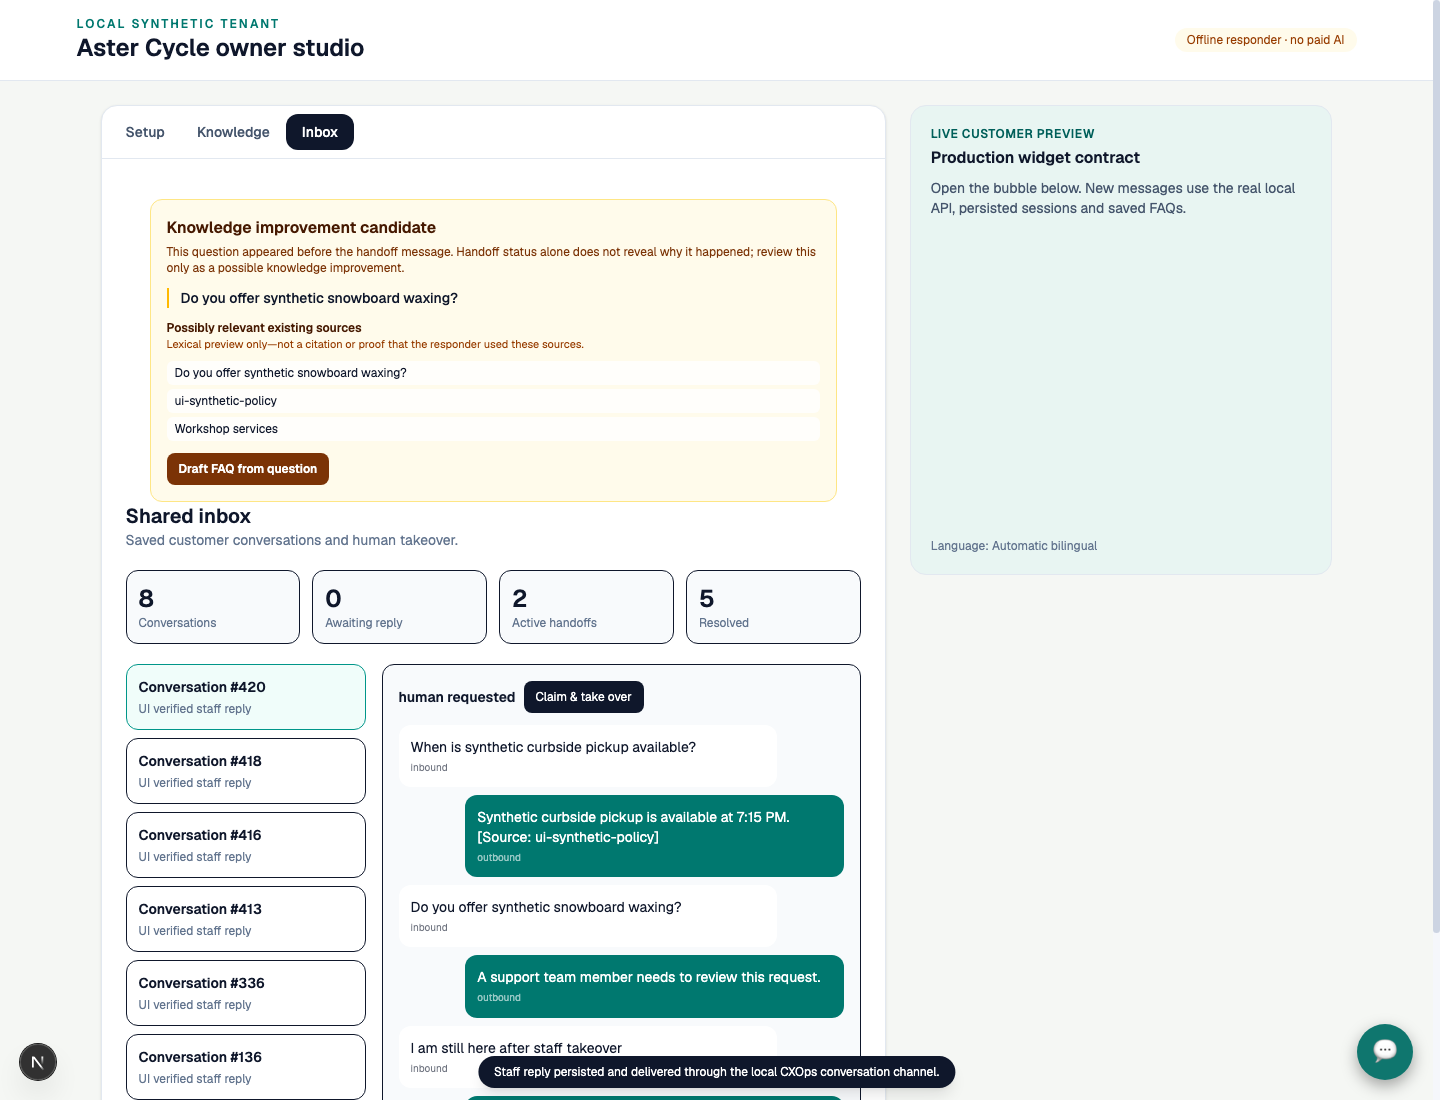
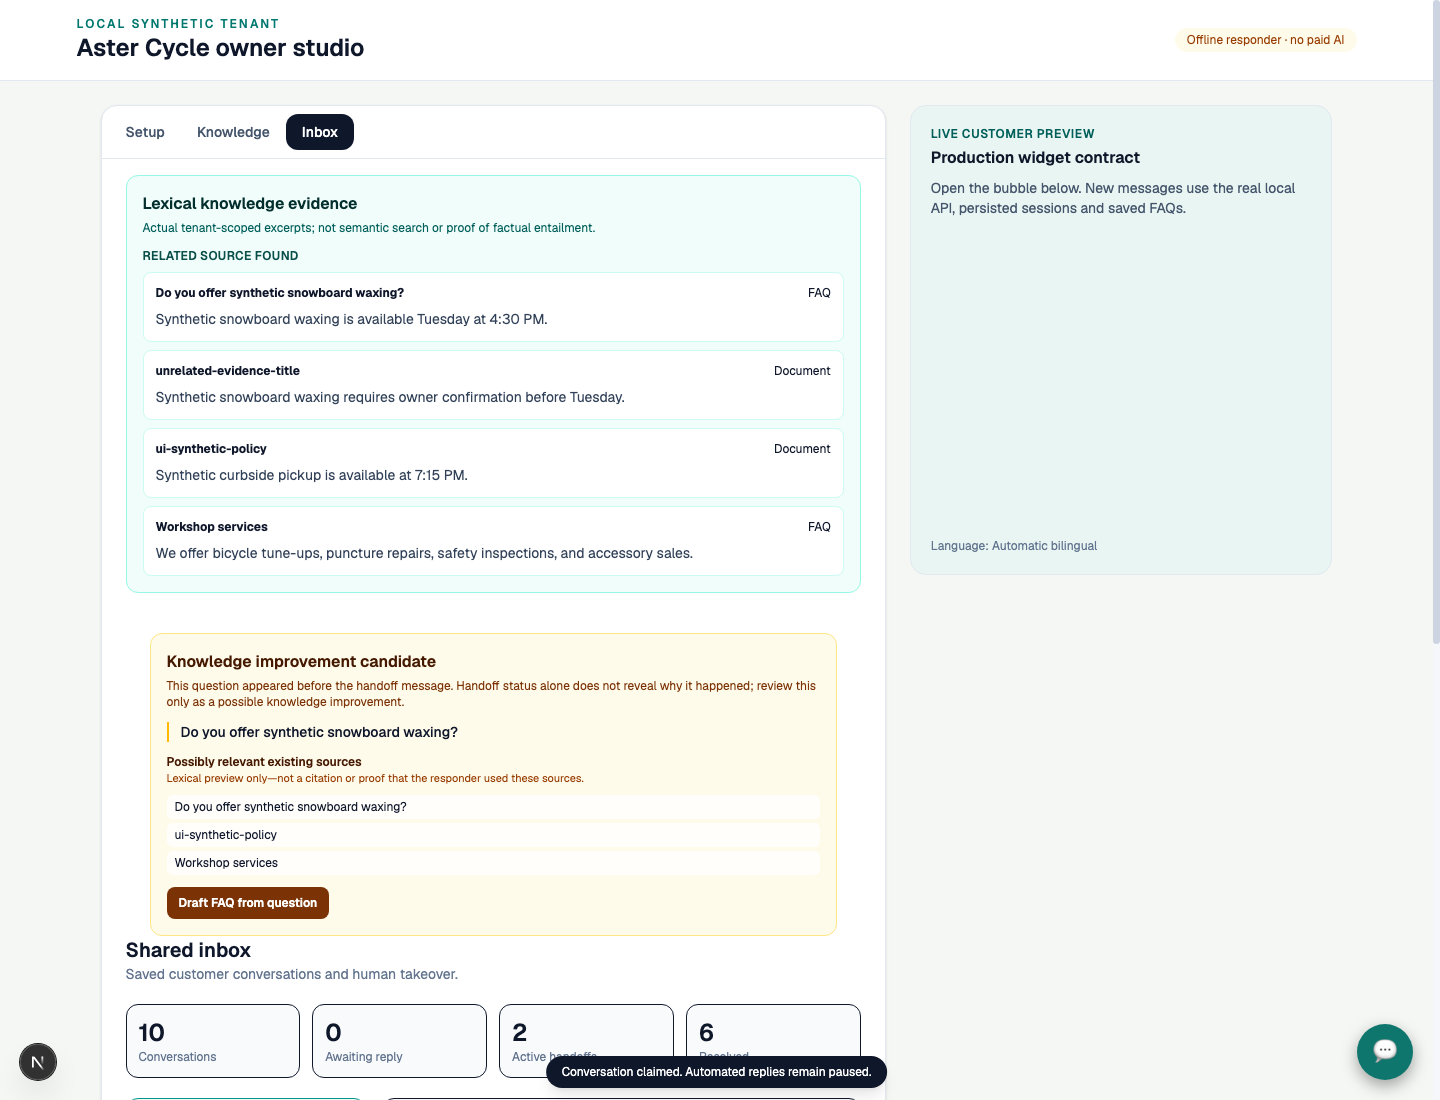
feat(owner-studio): show lexical knowledge evidence

diff --git a/frontend/src/app/chat/owner-studio/studio.tsx b/frontend/src/app/chat/owner-studio/studio.tsx
@@ -12,6 +12,7 @@ type Conversation = { id: number; subject: string | null; status: string; needs_
 type Message = { id: number; direction: string; body: string; created_at: string; delivery_status: string | null };
 type Handoff = { session_id: number; conversation_id: number; status: string; assigned_to_subject: string | null };
 type LocalDocument = { document_id: number; title: string; filename: string; chunks_created: number };
+type Evidence = { question: string; coverage: "missing" | "ambiguous" | "related"; items: { source_id: string; title: string; provenance: string; excerpt: string; lexical_score: number }[] };
 
 async function request(path: string, init?: RequestInit) {
   const headers = new Headers(init?.headers);
@@ -43,6 +44,8 @@ export default function OwnerStudio({ initialView }: { initialView: "setup" | "k
   const [loadedConversationId, setLoadedConversationId] = useState<number | null>(null);
   const [messagesLoading, setMessagesLoading] = useState(false);
   const [messagesError, setMessagesError] = useState<string | null>(null);
+  const [rawEvidence, setEvidence] = useState<Evidence | null>(null);
+  const [evidenceState, setEvidenceState] = useState<"idle" | "loading" | "error">("idle");
   const [reply, setReply] = useState("");
   const [notice, setNotice] = useState("Loading local workspace…");
 
@@ -89,9 +92,20 @@ export default function OwnerStudio({ initialView }: { initialView: "setup" | "k
     ...faqs,
     ...documents.map((document) => ({ title: document.title })),
   ], Boolean(selectedHandoff)), [documents, faqs, messages, selectedHandoff]);
+  const evidence = rawEvidence?.question === knowledgeCandidate?.question ? rawEvidence : null;
   // Kept false while the compact inbox markup below is migrated; the owner-facing
   // candidate panel is rendered above it with neutral, evidence-accurate wording.
   const knowledgeGap = false ? knowledgeCandidate : null;
+  useEffect(() => {
+    if (!knowledgeCandidate) return;
+    let active = true;
+    const question = knowledgeCandidate.question;
+    queueMicrotask(() => { if (active) { setEvidence(null); setEvidenceState("loading"); } });
+    request(`/staff/tenant-config/offline-evidence?question=${encodeURIComponent(question)}`)
+      .then((result) => { if (active && result.question === question) { setEvidence(result); setEvidenceState("idle"); } })
+      .catch(() => { if (active) setEvidenceState("error"); });
+    return () => { active = false; };
+  }, [knowledgeCandidate]);
   async function saveSettings() {
     if (!settings) return;
     const saved = await request("/staff/tenant-config/public-chat", {
@@ -144,6 +158,7 @@ export default function OwnerStudio({ initialView }: { initialView: "setup" | "k
     <div className="mx-auto grid max-w-7xl gap-6 p-3 sm:p-6 lg:grid-cols-[1.3fr_.7fr]">
       <section className="rounded-2xl border border-slate-200 bg-white shadow-sm">
         <nav className="flex overflow-x-auto border-b border-slate-200 p-2">{(["setup", "knowledge", "inbox"] as const).map((item) => <button key={item} onClick={() => setTab(item)} className={`shrink-0 rounded-xl px-4 py-2 text-sm font-medium capitalize ${tab === item ? "bg-slate-900 text-white" : "text-slate-600"}`}>{item}</button>)}</nav>
+        {tab === "inbox" && knowledgeCandidate && <section aria-label="Retrieved knowledge evidence" dir={language === "fa" ? "rtl" : "ltr"} className="mx-4 mt-4 rounded-xl border border-teal-200 bg-teal-50 p-4 sm:mx-6"><h3 className="font-semibold text-teal-950">{language === "fa" ? "شواهد واژگانی دانش" : "Lexical knowledge evidence"}</h3><p className="mt-1 text-xs text-teal-800">{language === "fa" ? "گزیدههای واقعی و محدود به همین مستأجر؛ نه جستوجوی معنایی و نه اثبات درستی." : "Actual tenant-scoped excerpts; not semantic search or proof of factual entailment."}</p>{evidenceState === "loading" && <p className="mt-3 text-sm text-teal-800">{language === "fa" ? "در حال یافتن گزیدهها…" : "Finding matching excerpts…"}</p>}{evidenceState === "error" && <p role="alert" className="mt-3 text-sm text-rose-800">{language === "fa" ? "شواهد در دسترس نیست." : "Evidence is unavailable."}</p>}{evidence && <><p className="mt-3 text-xs font-semibold uppercase tracking-wide text-teal-900">{evidence.coverage === "missing" ? (language === "fa" ? "پوشش یافت نشد" : "No lexical coverage") : evidence.coverage === "ambiguous" ? (language === "fa" ? "چند منبع مشابه" : "Multiple similar sources") : (language === "fa" ? "منبع مرتبط یافت شد" : "Related source found")}</p><div className="mt-2 space-y-2">{evidence.items.map((item) => <article key={item.source_id} className="rounded-lg border border-teal-100 bg-white p-3"><div className="flex flex-wrap items-center justify-between gap-2 text-xs"><strong>{item.title}</strong><span>{item.provenance === "document" ? (language === "fa" ? "سند" : "Document") : (language === "fa" ? "پرسش متداول" : "FAQ")}</span></div><p dir="auto" className="mt-2 line-clamp-4 whitespace-pre-wrap break-words text-start text-sm text-slate-700">{item.excerpt}</p></article>)}{evidence.items.length === 0 && <p className="rounded-lg bg-white p-3 text-sm text-teal-900">{language === "fa" ? "هیچ گزیده مشابهی یافت نشد." : "No matching excerpt was found."}</p>}</div></>}</section>}
         <div className="p-4 sm:p-6">
           {tab === "setup" && settings && <div className="space-y-5" dir={language === "fa" ? "rtl" : "ltr"}><div><h2 className="text-xl font-semibold">Assistant setup</h2><p className="text-sm text-slate-500">Identity, greeting, language preference and appearance.</p></div>
             <label className="block text-sm font-medium">Assistant name<input className="mt-2 w-full rounded-xl border p-3" value={settings.display_name} onChange={(e) => setSettings({ ...settings, display_name: e.target.value })}/></label>

diff --git a/frontend/src/lib/local-demo/security.test.ts b/frontend/src/lib/local-demo/security.test.ts
@@ -20,6 +20,7 @@ describe("local demo bridge boundary", () => {
   });
   it("allows only the owner-studio route set", () => {
     assert.equal(isAllowedLocalDemoPath("staff/tenant-config/offline-faqs"), true);
+    assert.equal(isAllowedLocalDemoPath("staff/tenant-config/offline-evidence"), true);
     assert.equal(isAllowedLocalDemoPath("staff/tenant-config/offline-documents"), true);
     assert.equal(isAllowedLocalDemoPath("staff/tenant-config/offline-documents/42"), true);
     assert.equal(isAllowedLocalDemoPath("staff/tenant-config/offline-documents/not-an-id"), false);

diff --git a/frontend/src/lib/local-demo/security.ts b/frontend/src/lib/local-demo/security.ts
@@ -12,6 +12,7 @@ function isSameLoopbackOrigin(candidate: string, requestOrigin: string): boolean
 export const LOCAL_DEMO_PATHS = [
   /^staff\/tenant-config\/public-chat$/,
   /^staff\/tenant-config\/offline-faqs$/,
+  /^staff\/tenant-config\/offline-evidence$/,
   /^staff\/tenant-config\/offline-documents(?:\/\d+)?$/,
   /^staff\/public-chat\/handoff$/,
   /^staff\/public-chat\/sessions\/\d+\/(assign|release|resolve)$/,

diff --git a/app/api/routes/tenant_config.py b/app/api/routes/tenant_config.py
@@ -14,7 +14,16 @@ import hashlib
 from typing import Annotated, Any
 from urllib.parse import urlsplit
 
-from fastapi import APIRouter, Depends, File, Form, HTTPException, UploadFile, status
+from fastapi import (
+    APIRouter,
+    Depends,
+    File,
+    Form,
+    HTTPException,
+    Query,
+    UploadFile,
+    status,
+)
 from sqlalchemy import delete, func, select
 from sqlalchemy.ext.asyncio import AsyncSession
 
@@ -32,6 +41,8 @@ from app.schemas.tenant_config import (
     OfflineDocumentsResponse,
     OfflineDocumentSummary,
     OfflineDocumentUploadResponse,
+    OfflineEvidenceItem,
+    OfflineEvidenceResponse,
     OfflineFaqItem,
     OfflineFaqsResponse,
     OfflineFaqsUpdateRequest,
@@ -44,6 +55,7 @@ from app.services.document_parser_service import (
     UnsupportedDocumentTypeError,
 )
 from app.services.knowledge_ingestion_service import KnowledgeIngestionService
+from app.services.offline_grounded_chat import _tokens
 from app.services.tenant_config_service import (
     CLEARABLE_PUBLIC_CHAT_FIELDS,
     AmbiguousWidgetError,
@@ -71,6 +83,8 @@ ManageAuthz = Annotated[
 MAX_LOCAL_DOCUMENT_BYTES = 512 * 1024
 MAX_LOCAL_DOCUMENTS = 20
 LOCAL_DOCUMENT_SOURCE = "local_synthetic_document"
+_OWNER_EVIDENCE_LIMIT = 5
+_OWNER_EVIDENCE_SCAN_LIMIT = 5000
 
 
 def _require_local_offline_demo() -> None:
@@ -205,6 +219,60 @@ async def get_offline_faqs(
     ).all()
     return OfflineFaqsResponse(
         items=[OfflineFaqItem(title=title, content=content) for title, content in rows]
+    )
+
+
+@router.get("/offline-evidence", response_model=OfflineEvidenceResponse)
+async def get_offline_evidence(
+    db: DatabaseSession,
+    tenant: CurrentTenant,
+    _authz: ManageAuthz,
+    question: Annotated[str, Query(min_length=2, max_length=500)],
+):
+    """Return bounded lexical excerpts from this local synthetic tenant only."""
+    _require_local_offline_demo()
+    question_tokens = _tokens(question)
+    rows = (
+        await db.execute(
+            select(KnowledgeChunk, KnowledgeDocument.title, KnowledgeDocument.source)
+            .join(
+                KnowledgeDocument,
+                (KnowledgeDocument.id == KnowledgeChunk.document_id)
+                & (KnowledgeDocument.organization_id == KnowledgeChunk.organization_id),
+            )
+            .where(KnowledgeChunk.organization_id == tenant.organization_id)
+            .where(
+                KnowledgeDocument.source.in_(
+                    {"local_synthetic", LOCAL_DOCUMENT_SOURCE}
+                )
+            )
+            .order_by(KnowledgeChunk.id.asc())
+            .limit(_OWNER_EVIDENCE_SCAN_LIMIT)
+        )
+    ).all()
+    ranked: list[tuple[float, KnowledgeChunk, str, str]] = []
+    for chunk, title, source in rows:
+        overlap = question_tokens & _tokens(f"{title} {chunk.content}")
+        if not overlap:
+            continue
+        coverage = len(overlap) / max(1, len(question_tokens))
+        ranked.append((coverage, chunk, title, source))
+    ranked.sort(key=lambda item: (-item[0], item[1].id))
+    selected = ranked[:_OWNER_EVIDENCE_LIMIT]
+    coverage = "missing" if not selected else "ambiguous" if len(selected) > 1 and selected[0][0] - selected[1][0] < 0.08 else "related"
+    return OfflineEvidenceResponse(
+        question=question,
+        coverage=coverage,
+        items=[
+            OfflineEvidenceItem(
+                source_id=f"offline:{chunk.id}",
+                title=title,
+                provenance="document" if source == LOCAL_DOCUMENT_SOURCE else "faq",
+                excerpt=chunk.content.strip()[:280],
+                lexical_score=round(score, 4),
+            )
+            for score, chunk, title, source in selected
+        ],
     )
 
 

diff --git a/tests/test_tenant_config_api.py b/tests/test_tenant_config_api.py
@@ -38,6 +38,8 @@ from app.core.database import AsyncSessionLocal
 from app.main import app
 from app.models.base import Base
 from app.models.business_integration import BusinessIntegrationConfiguration
+from app.models.knowledge_chunk import KnowledgeChunk
+from app.models.knowledge_document import KnowledgeDocument
 from app.models.organization import Organization
 from app.models.organization_membership import (
     OrganizationMembership,
@@ -819,6 +821,59 @@ async def test_local_document_upload_list_duplicate_and_delete(
         "/staff/tenant-config/offline-documents", headers=headers
     )
     assert listed_again.json()["items"] == []
+
+
+@pytest.mark.asyncio
+async def test_local_evidence_matches_document_content_and_stays_tenant_scoped(
+    db, client, monkeypatch
+):
+    _enable_local_offline_demo(monkeypatch)
+    mine, subject, _key = await _make_tenant(db)
+    theirs, other_subject, _other_key = await _make_tenant(db)
+    await client.post(
+        "/staff/tenant-config/offline-documents",
+        files={"file": ("unrelated-title.txt", b"Synthetic wheel truing is offered on Thursday evenings.", "text/plain")},
+        headers=_headers(subject, mine),
+    )
+    await client.post(
+        "/staff/tenant-config/offline-documents",
+        files={"file": ("private-other.txt", b"Synthetic wheel truing costs a secret amount.", "text/plain")},
+        headers=_headers(other_subject, theirs),
+    )
+    internal_document = KnowledgeDocument(
+        organization_id=mine.id,
+        title="Internal prompt material",
+        source="manual",
+        checksum=secrets.token_hex(32),
+        metadata_json={},
+    )
+    db.add(internal_document)
+    await db.flush()
+    db.add(KnowledgeChunk(
+        organization_id=mine.id,
+        document_id=internal_document.id,
+        chunk_index=0,
+        content="Synthetic wheel truing internal prompt must not be exposed.",
+        token_count=9,
+        metadata_json={},
+        embedding=[0.0] * 1536,
+    ))
+    await db.commit()
+
+    response = await client.get(
+        "/staff/tenant-config/offline-evidence",
+        params={"question": "When is synthetic wheel truing offered?"},
+        headers=_headers(subject, mine),
+    )
+    assert response.status_code == 200, response.text
+    body = response.json()
+    assert body["question"] == "When is synthetic wheel truing offered?"
+    assert body["items"][0]["title"] == "unrelated-title"
+    assert body["items"][0]["provenance"] == "document"
+    assert "Thursday evenings" in body["items"][0]["excerpt"]
+    assert "secret amount" not in response.text
+    assert "internal prompt" not in response.text
+    assert len(body["items"][0]["excerpt"]) <= 280
 
 
 @pytest.mark.asyncio

diff --git a/app/schemas/tenant_config.py b/app/schemas/tenant_config.py
@@ -158,5 +158,19 @@ class OfflineDocumentsResponse(BaseModel):
     items: list[OfflineDocumentSummary]
 
 
+class OfflineEvidenceItem(BaseModel):
+    source_id: str
+    title: str
+    provenance: str
+    excerpt: str
+    lexical_score: float
+
+
+class OfflineEvidenceResponse(BaseModel):
+    question: str
+    coverage: str
+    items: list[OfflineEvidenceItem]
+
+
 class OfflineDocumentUploadResponse(OfflineDocumentSummary):
     duplicate: bool
